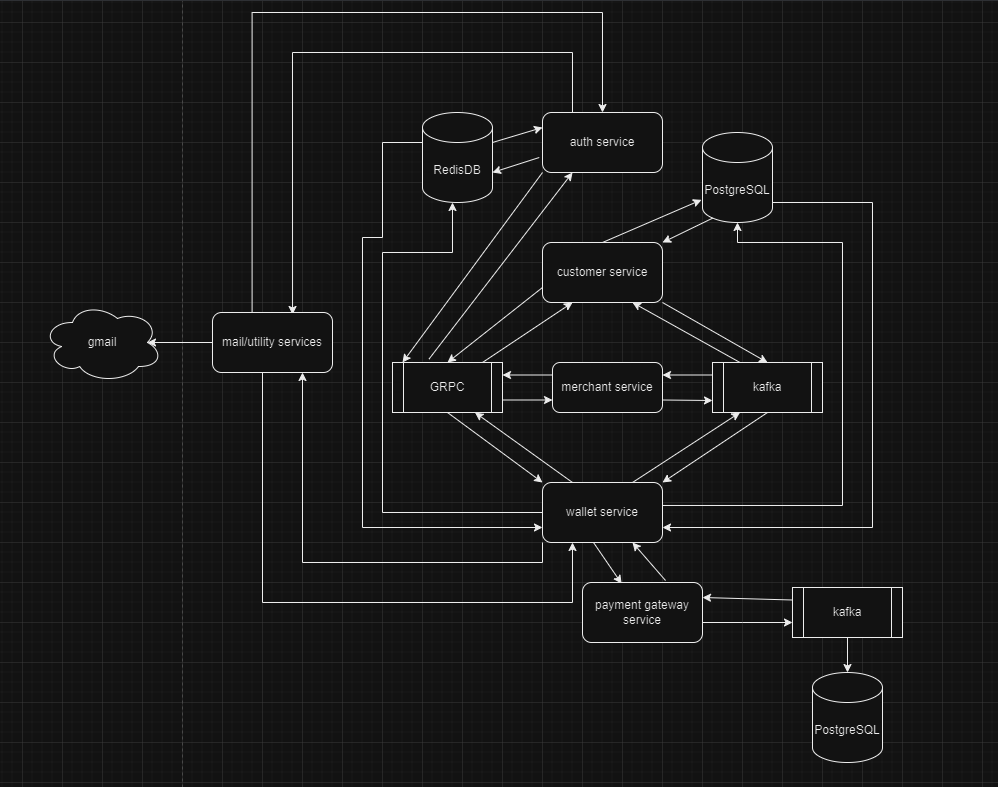
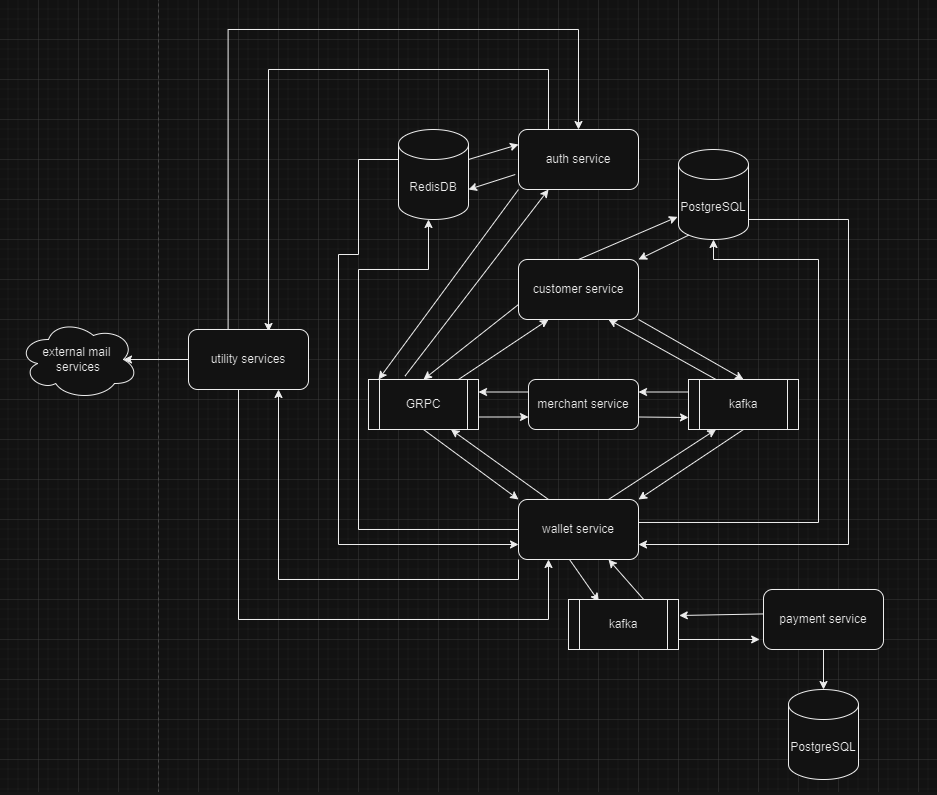
chore : update go.work, architechture & README.md

Changed region(s): [[0.0309, 0.0, 0.9285, 0.9759], [0.8666, 0.9759, 0.8975, 1.0], [0.8666, 0.2745, 0.8975, 0.305]]

diff --git a/README.md b/README.md
@@ -6,11 +6,12 @@ E-Wallet using golang.
 
 ## Main Features : 
 - Authentication Customer & Merchant ✅
-- Dashboard Customer & Merchant ✅
+- Dashboard Customer & Merchant
 - Topup Wallet Customer
 - Transfer Wallet Customer to Customer
 - Payout Wallet Customer to Merchant app
 - Redeem Profit Merchant
+- Dashboard Admin
 
 ## Tech Stack :
 1. Golang
@@ -24,7 +25,6 @@ E-Wallet using golang.
 ## Prerequisites : 
 1. Make sure Docker & Docker Compose already installed on your machine
 2. Rename `example.env` to `.env` on folder `./cmd` every services
-3. Make sure to uncheck comment & fill your **SMTP configuration** on auth env
 
 ## Setup :
 1. To build & run all services in background using command : 
